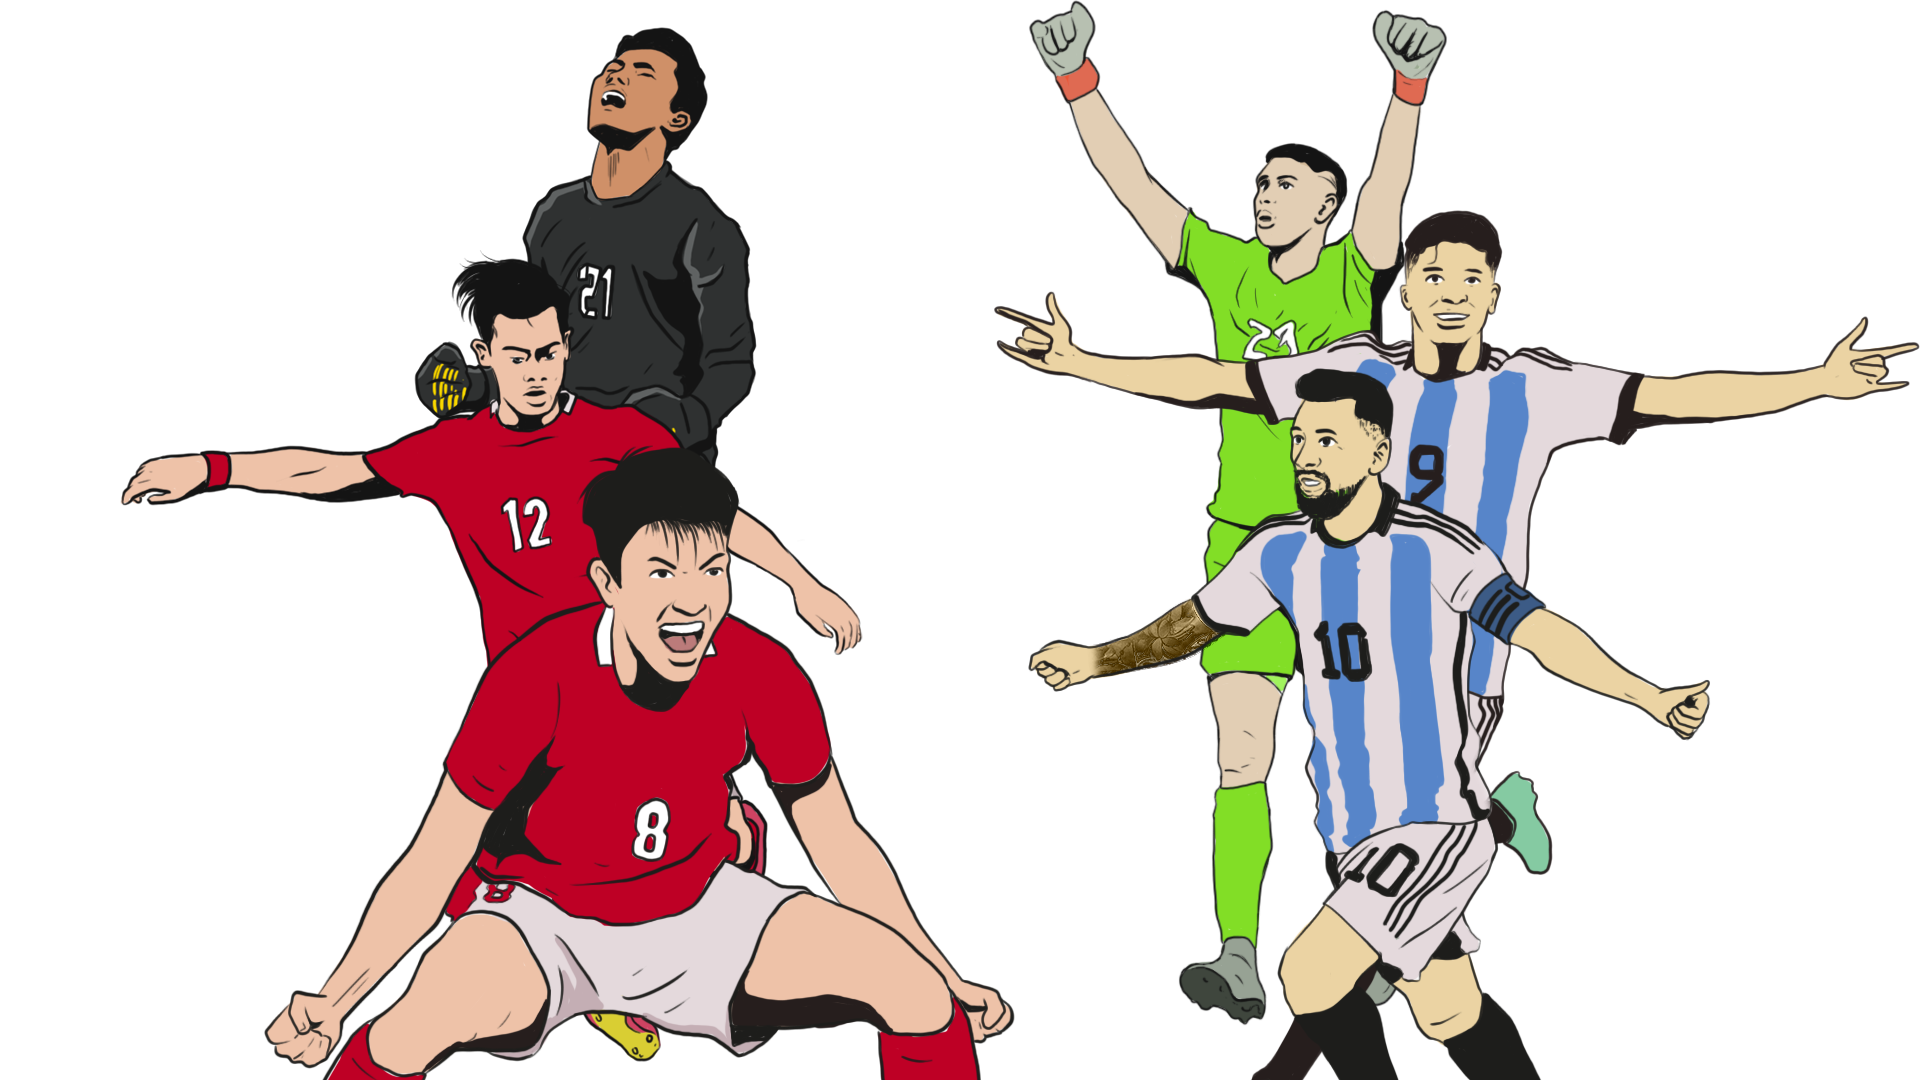
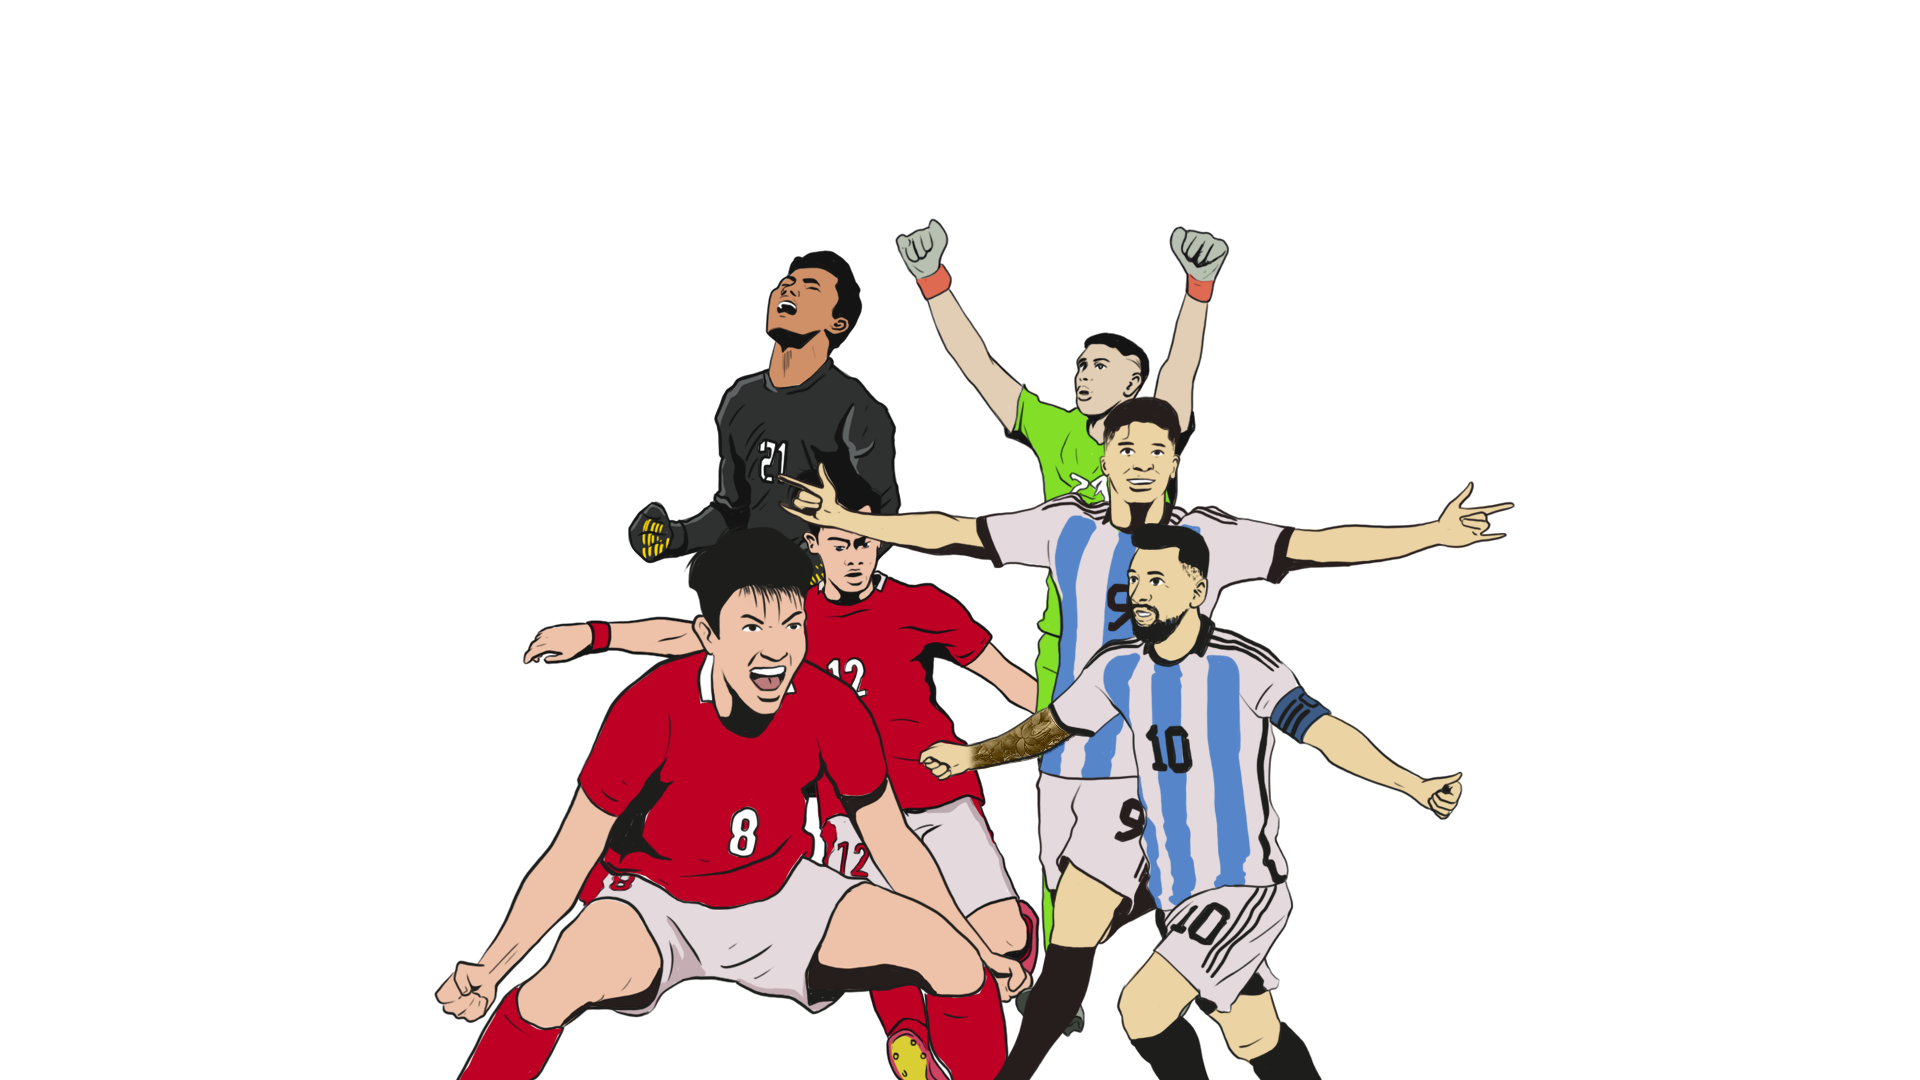
sws

diff --git a/sass/style.css b/sass/style.css
@@ -1,4 +1,4 @@
-@import url("https://fonts.googleapis.com/css2?family=Bree+Serif&family=DM+Serif+Display&family=Libre+Baskerville&family=Montserrat:wght@400;500;700&family=Oxanium&family=Kanit:wght@300;400;600;700&display=swap");@font-face{font-family:"Aeonik Medium";src:url("../fonts/Aeonik-Medium.woff2");src:url("../fonts/Aeonik-Medium.woff2") format("woff2")}@font-face{font-family:"Aeonik Regular";src:url("../fonts/Aeonik-Regular.woff2");src:url("../fonts/Aeonik-Regular.woff2") format("woff2")}body{overflow-x:hidden}.o-hidden{overflow-x:clip}body,main{font-family:'Kanit', sans-serif}.firstletter::first-letter{float:left;font-weight:bold;margin-right:8px;font-size:60px;font-size:6rem;line-height:40px;line-height:4rem;height:4rem;text-transform:uppercase}.slick-slide{margin:0 16px}.slick-list{margin:0 -16px}.slick-next,.slick-prev{border:2px solid rgba(255,255,255,0.5);width:42px;background:rgba(135,195,211,0.6);height:42px;border-radius:50%}.slick-next:hover,.slick-next:focus,.slick-next:active,.slick-prev:hover,.slick-prev:focus,.slick-prev:active{background:rgba(135,195,211,0.8)}.slick-next::before,.slick-prev::before{font-family:"FontAwesome";z-index:99;color:white}.slick-next{right:-16px;z-index:9}.slick-next::before{content:"\f054"}.slick-prev{left:-16px;z-index:9}.slick-prev::before{content:"\f053"}.slick-dots li button::before{font-size:39px;content:"";width:20px;height:3px}.isdesktop{display:block}@media screen and (max-width: 766px){.isdesktop{display:none}}.ismobile{display:none}@media screen and (max-width: 766px){.ismobile{display:block}}#nav{background:rgba(0,120,130,0.5) !important;z-index:99 !important;backdrop-filter:blur(11px)}@media screen and (max-width: 766px){#nav{backdrop-filter:initial}}.share_icon>a{padding:0}#share{z-index:108}.share_icon>a i{font-size:25px;line-height:initial}@media screen and (max-width: 766px){.share_icon>a i{font-size:16px !important;line-height:initial}}h2,h3{font-weight:700}section{padding:32px 0;min-height:100vh;position:relative;background:#87232b;color:white;z-index:8}section p,section div{font-size:1.2rem;font-weight:300}@media screen and (max-width: 766px){section p,section div{font-size:1rem}}.totop{position:relative;z-index:88}::-webkit-scrollbar{width:5px;height:5px}::-webkit-scrollbar-track{background:#f1f1f1}::-webkit-scrollbar-thumb{background:#888}::-webkit-scrollbar-thumb:hover{background:#555}.bg-trsp-white{background:rgba(255,255,255,0.07);padding:8px 16px;border-radius:8px}.bg-trsp-white p,.bg-trsp-white blockquote{margin-bottom:0;color:white}.titlex{font-family:'Aeonik Medium', sans-serif;font-weight:700;color:white;font-size:3.5rem;line-height:4rem}@media screen and (max-width: 766px){.titlex{font-size:2.2rem;line-height:2.4rem}}.highlights{color:#f7bb2e;font-weight:700}.headerpp{position:fixed;top:0;right:0;z-index:102;left:0;height:56px;display:none;width:100%;background:black}@media screen and (max-width: 766px){.footerm{position:fixed;height:46px;width:100%;background:#bbb;z-index:999;display:none;left:0;right:0;bottom:0}}.test-sticky{position:sticky;top:56px}@media screen and (max-width: 766px){.test-sticky{margin-bottom:24px;top:0;text-align:center}}@media screen and (max-width: 766px){.font-in{font-size:1.9rem}}.title__cek{width:fit-content;color:#f8f8f8;padding:8px 8px;margin:0 auto;text-align:center;position:relative}.title__cek h3{font-size:3.2rem}@media screen and (max-width: 766px){.title__cek h3{font-size:2.2rem}}.banner{padding:0}.banner .img{width:100%;height:100vh}.banner .img img{width:100%;height:100%;object-fit:contain}@media screen and (max-width: 766px){.banner .img img{object-fit:cover}}.banner .img-wash{position:absolute;inset:0;width:100%;height:100%}.banner .img-wash img{width:100%;height:100%;object-fit:cover}.banner .img-wash::before{content:"";position:absolute;inset:0;background:linear-gradient(to top, #87232b, rgba(135,35,43,0.8), #87232b)}.pembukaan{padding:52px 0}.pembukaan .imgg{position:absolute;left:0;right:0;width:100%;height:auto;z-index:4;bottom:0px;display:none}@media screen and (max-width: 766px){.pembukaan .imgg{display:block}}@media screen and (max-width: 375px){.pembukaan .imgg{display:block}}.pembukaan .imgg img{width:100%;height:100%;object-fit:cover}.pembukaan .bgs{position:absolute;inset:0;width:100%;opacity:1;height:100%;z-index:2}@media screen and (max-width: 766px){.pembukaan .bgs{height:99%}}.pembukaan .bgs::before{content:'';position:absolute;height:10vh;left:0;right:0;bottom:0;background:linear-gradient(to top, #87232b 20%, transparent)}@media screen and (max-width: 766px){.pembukaan .bgs::before{content:'';display:none}}.pembukaan .bgs img{width:100%;height:100%;object-fit:cover}.pembukaan .bg{position:absolute;inset:0;width:100%;opacity:.3;height:100%}.pembukaan .bg::before{content:'';position:absolute;inset:0;background:linear-gradient(to top, #87232b, rgba(135,35,43,0.7), #87232b)}.pembukaan .bg img{width:100%;height:100%;object-fit:cover}@keyframes MoveUpDown{0%,
+@import url("https://fonts.googleapis.com/css2?family=Bree+Serif&family=DM+Serif+Display&family=Libre+Baskerville&family=Montserrat:wght@400;500;700&family=Oxanium&family=Kanit:wght@300;400;600;700&display=swap");@font-face{font-family:"Aeonik Medium";src:url("../fonts/Aeonik-Medium.woff2");src:url("../fonts/Aeonik-Medium.woff2") format("woff2")}@font-face{font-family:"Aeonik Regular";src:url("../fonts/Aeonik-Regular.woff2");src:url("../fonts/Aeonik-Regular.woff2") format("woff2")}body{overflow-x:hidden}.o-hidden{overflow-x:clip}body,main{font-family:'Kanit', sans-serif}.firstletter::first-letter{float:left;font-weight:bold;margin-right:8px;font-size:60px;font-size:6rem;line-height:40px;line-height:4rem;height:4rem;text-transform:uppercase}.slick-slide{margin:0 16px}.slick-list{margin:0 -16px}.slick-next,.slick-prev{border:2px solid rgba(255,255,255,0.5);width:42px;background:rgba(135,195,211,0.6);height:42px;border-radius:50%}.slick-next:hover,.slick-next:focus,.slick-next:active,.slick-prev:hover,.slick-prev:focus,.slick-prev:active{background:rgba(135,195,211,0.8)}.slick-next::before,.slick-prev::before{font-family:"FontAwesome";z-index:99;color:white}.slick-next{right:-16px;z-index:9}.slick-next::before{content:"\f054"}.slick-prev{left:-16px;z-index:9}.slick-prev::before{content:"\f053"}.slick-dots li button::before{font-size:39px;content:"";width:20px;height:3px}.isdesktop{display:block}@media screen and (max-width: 766px){.isdesktop{display:none}}.ismobile{display:none}@media screen and (max-width: 766px){.ismobile{display:block}}#nav{background:rgba(0,120,130,0.5) !important;z-index:99 !important;backdrop-filter:blur(11px)}@media screen and (max-width: 766px){#nav{backdrop-filter:initial}}.share_icon>a{padding:0}#share{z-index:108}.share_icon>a i{font-size:25px;line-height:initial}@media screen and (max-width: 766px){.share_icon>a i{font-size:16px !important;line-height:initial}}h2,h3{font-weight:700}section{padding:32px 0;min-height:100vh;position:relative;background:#87232b;color:white;z-index:8}section p,section div{font-size:1.2rem;font-weight:300}@media screen and (max-width: 766px){section p,section div{font-size:1rem}}.totop{position:relative;z-index:88}::-webkit-scrollbar{width:5px;height:5px}::-webkit-scrollbar-track{background:#f1f1f1}::-webkit-scrollbar-thumb{background:#888}::-webkit-scrollbar-thumb:hover{background:#555}.bg-trsp-white{background:rgba(255,255,255,0.07);padding:8px 16px;border-radius:8px}.bg-trsp-white p,.bg-trsp-white blockquote{margin-bottom:0;color:white}.titlex{font-family:'Aeonik Medium', sans-serif;font-weight:700;color:white;font-size:3.5rem;line-height:4rem}@media screen and (max-width: 766px){.titlex{font-size:2.2rem;line-height:2.4rem}}.highlights{color:#f7bb2e;font-weight:700}.headerpp{position:fixed;top:0;right:0;z-index:102;left:0;height:56px;display:none;width:100%;background:black}@media screen and (max-width: 766px){.footerm{position:fixed;height:46px;width:100%;background:#bbb;z-index:999;display:none;left:0;right:0;bottom:0}}.test-sticky{position:sticky;top:56px}@media screen and (max-width: 766px){.test-sticky{margin-bottom:24px;top:0;text-align:center}}@media screen and (max-width: 766px){.font-in{font-size:1.9rem}}.title__cek{width:fit-content;color:#f8f8f8;padding:8px 8px;margin:0 auto;text-align:center;position:relative}.title__cek h3{font-size:3.2rem}@media screen and (max-width: 766px){.title__cek h3{font-size:2.2rem}}.banner{padding:0;position:relative}.banner .judul{position:absolute;left:50%;width:80%;text-align:center;z-index:9;top:80px;transform:translate(-50%, 0)}@media screen and (max-width: 766px){.banner .judul{top:70px}}.banner .judul h2{font-size:3.5rem;text-shadow:8px 4px black;margin-bottom:0;line-height:3.2rem}@media screen and (max-width: 766px){.banner .judul h2{font-size:2.4rem;line-height:2.2rem}}.banner .test{position:absolute;left:0;right:0;bottom:0;z-index:5;width:100%;height:100px}.banner .img{width:100%;height:100vh;z-index:2;position:relative}.banner .img img{width:100%;height:100%;object-fit:contain}@media screen and (max-width: 766px){.banner .img img{object-fit:cover}}.banner .img-wash{position:absolute;inset:0;width:100%;height:100%}.banner .img-wash img{width:100%;height:100%;object-fit:cover}.banner .img-wash::before{content:"";position:absolute;inset:0;background:linear-gradient(to top, #87232b, rgba(135,35,43,0.8), #87232b)}.pembukaan{padding:52px 0}.pembukaan .imgg{position:absolute;left:0;right:0;width:100%;height:auto;z-index:4;bottom:0px;display:none}@media screen and (max-width: 766px){.pembukaan .imgg{display:block}}@media screen and (max-width: 375px){.pembukaan .imgg{display:block}}.pembukaan .imgg img{width:100%;height:100%;object-fit:cover}.pembukaan .bgs{position:absolute;inset:0;width:100%;opacity:1;height:100%;z-index:2}@media screen and (max-width: 766px){.pembukaan .bgs{height:99%}}.pembukaan .bgs::before{content:'';position:absolute;height:10vh;left:0;right:0;bottom:0;background:linear-gradient(to top, #87232b 20%, transparent)}@media screen and (max-width: 766px){.pembukaan .bgs::before{content:'';display:none}}.pembukaan .bgs img{width:100%;height:100%;object-fit:cover}.pembukaan .bg{position:absolute;inset:0;width:100%;opacity:.3;height:100%}.pembukaan .bg::before{content:'';position:absolute;inset:0;background:linear-gradient(to top, #87232b, rgba(135,35,43,0.7), #87232b)}.pembukaan .bg img{width:100%;height:100%;object-fit:cover}@keyframes MoveUpDown{0%,
     100%{left:0}50%{left:25px}}.gambar_bottom{animation:MoveUpDown 3s linear infinite;position:absolute;bottom:0;left:0;width:auto;height:35vh}.gambar_bottom img{width:100%;height:100%;object-fit:contain}.data{overflow-x:clip}.data.no-padd{padding:32px 0 0}.data .imggs{position:absolute;left:0;right:0;width:100%;height:auto;z-index:4;top:0px}.data .imggs img{width:100%;height:100%;object-fit:cover}.data .kaka{margin:initial !important}.data .imgs{position:absolute;top:-51px;width:100%}@media screen and (max-width: 766px){.data .imgs{height:433px}}.data .imgs::before{content:"";position:absolute;inset:0}.data .imgs img{width:100%;height:100%;object-fit:cover}.data .prediksi{position:relative;height:100vh;width:100%;z-index:7}.data .prediksi .vs{position:relative;top:50px;font-weight:200}.data .prediksi .skor{position:absolute;top:40%;width:100vw;height:60%;text-align:center;margin:0 auto;padding:100px 0 0}@media screen and (max-width: 766px){.data .prediksi .skor{padding:32px 0}}.data .prediksi .skor .imgg{position:absolute;inset:0;width:100%;height:100%}.data .prediksi .skor .imgg::before{content:"";position:absolute;inset:0;background:linear-gradient(to top, #000, rgba(0,0,0,0.5), #000)}.data .prediksi .skor .imgg img{width:100%;height:100%;object-fit:cover}.data .prediksi .skor .lines{position:absolute;left:0;right:0;width:100%;height:auto;top:initial;bottom:90%}@media screen and (max-width: 766px){.data .prediksi .skor .lines{top:-155px;bottom:initial}}@media screen and (max-width: 375px){.data .prediksi .skor .lines{top:-150px;bottom:initial}}.data .prediksi .skor .lines img{width:100%;height:100%;object-fit:cover}.data .prediksi .skor .boxs{width:240px;height:240px;background:rgba(255,255,255,0.7);margin:16px auto;font-size:10rem}@media screen and (max-width: 766px){.data .prediksi .skor .boxs{width:80px;font-size:3rem;height:80px}}.data-garis{border:1px solid;width:fit-content;padding:8px;margin:8px}.data-garis h4{color:white !important;font-size:1.3rem !important}.data-garis ul{padding:0 24px}.data .fit{width:fit-content}.data .imgd{position:absolute;width:120px;height:120px;background:linear-gradient(to top, #ccc, #fff);border-radius:50%;padding:16px;top:-25px;left:-25px}@media screen and (max-width: 766px){.data .imgd{width:120px;height:120px}}.data .imgd img{width:100%;height:100%;object-fit:contain}.data-merah{background:#fff;width:fit-content;padding:8px;color:#87232b;position:relative;border-radius:16px;margin:24px 8px}.data-merah .hm{margin-left:100px}.data-merah p{margin-bottom:0}.data-merah .boldx{font-size:2rem;font-weight:bold}.data-merah h4{font-size:1.3rem !important;color:#87232b !important;margin-bottom:0 !important}@media screen and (max-width: 766px){.data-merah h4{font-size:1.2rem !important}}.data .pelatih{border:5px solid black;border-radius:16px;box-shadow:10px 10px #b9b1b2;height:240px !important;position:sticky;top:60px}.data .pelatih h4{font-size:.8rem;text-align:center;color:white;font-weight:300;position:relative}@media screen and (max-width: 766px){.data .pelatih{box-shadow:5px 5px #b9b1b2}}.data .pelatih img{border-radius:12px}.data .no-rotate{transform:initial !important}.data .titlesa{position:relative;width:fit-content;margin:0 auto;z-index:4}.data .titlesa h3{margin-bottom:0;color:#fbfb3b}.data .titlesa::before{content:"";position:absolute;top:16px;bottom:0;z-index:-1;right:-8px;width:100%;height:80%;background:#111}.data .img-sup{width:100%;height:320px;border:8px solid #ccc;border-radius:16px;transform:rotate(-2deg)}.data .img-sup img{width:100%;border-radius:16px;height:100%;object-fit:cover}.data .img-col{width:100%;height:100%}.data .img-col img{width:100%;height:100%;object-fit:cover}.data h4{font-size:2rem;font-weight:600;color:#cecece}@media screen and (max-width: 766px){.data h4{font-size:1.6rem}}.data .konten-img{width:100%;height:fit-content}.data .konten-img img{width:100%;height:100%;object-fit:contain}.data .img{width:50%;height:320px;position:absolute;left:0;z-index:3;bottom:0}@media screen and (max-width: 766px){.data .img{overflow-x:hidden;height:270px}}.data .img img{width:100%;height:100%;object-fit:contain}@media screen and (max-width: 766px){.data .img img{object-fit:cover}}.data .img-wash{position:absolute;inset:0;width:100%;height:100%}.data .img-wash img{width:100%;height:100%;object-fit:cover}.data .img-wash.haha::before{content:"";position:absolute;inset:0;background:linear-gradient(to top, #87232b, rgba(135,35,43,0.9), #87232b)}@media screen and (max-width: 766px){.data .img-wash.haha::before{background:linear-gradient(to top, #87232b, rgba(135,35,43,0.8), #87232b)}}.data .img-wash::before{content:"";position:absolute;inset:0;background:linear-gradient(to top, #87232b, rgba(135,35,43,0.8), #87232b)}.data .helping{position:absolute;inset:0;width:100%;height:100%;background:rgba(220,24,25,0.8)}.data .kiper{width:100%;height:100vh}.data .kiper img{width:100%;height:100%;object-fit:cover}.data .all{display:block;width:680px;margin:64px auto 0}@media screen and (max-width: 766px){.data .all{width:auto}}.data .all .side-play{display:inline-block;width:43%;background-position:bottom;height:200px;background-size:contain;background-image:url(../img/bg.png);vertical-align:middle;border-radius:16px;border:2px solid #fff;position:relative}.data .all .side-play .position{position:absolute;left:0;top:0;font-weight:600;display:none;background:white;color:#dc1819;padding:0 8px}.data .all .side-play .name{position:absolute;bottom:0;font-weight:600;left:0;border-radius:0 0 16px 16px;right:0;height:24px;font-size:1rem;z-index:8;background:rgba(255,255,255,0.7);color:#dc1819;text-align:center}@media screen and (max-width: 766px){.data .all .side-play .name{font-size:.85rem}}.data .all .side-play .img{position:absolute;left:0;right:0;bottom:0;width:100%;height:115%}.data .all .side-play .img img{width:100%;border-radius:16px;height:100%;object-fit:cover}.data .all .centerx{display:inline-block;margin:0 8px;vertical-align:middle}.data .min100{height:100vh}.data .bg{position:absolute;inset:0;width:100%;opacity:.3;height:100%}.data .bg.o6{opacity:.6 !important}.data .bg::before{content:'';position:absolute;inset:0;background:linear-gradient(to top, #87232b, rgba(135,35,43,0.7), #87232b)}.data .bg img{width:100%;height:100%;object-fit:cover}@keyframes MoveUpDown1{0%,
     100%{top:10px}50%{top:25px}}.sticky-img{position:sticky;top:24px;left:0;right:0;bottom:0;width:60%;height:100%}@media screen and (max-width: 766px){.sticky-img{width:100%}}.sticky-img img{width:100%;height:100%;object-fit:contain}.bg-help-teks{background:rgba(135,35,43,0.8)}.bg-help-teks h4{color:white}.table-messi td:first-child{font-size:.8rem}.table-messi td:last-child{font-size:1.2rem;padding:0 8px}.fasiliti .imgk{width:100%;height:320px;border-radius:16px;border:6px solid white;position:relative;z-index:8}.fasiliti .imgk img,.fasiliti .imgk iframe{border-radius:16px;width:100%;height:100%;object-fit:cover}.fasiliti .imgk .detaild{position:absolute;bottom:0px;left:0px;font-weight:700;color:white;padding:8px}.fasiliti .imgk .detaild .totop{font-size:1.2rem}.fasiliti .imgk .detaild::before{content:"";position:absolute;bottom:0px;left:0px;top:0;right:0;width:89vw;background:linear-gradient(to top, #000, transparent);z-index:1;border-radius:0 0 16px 16px}.allm .bold{font-weight:600}.allm ul{padding:4px 20px}.table-pelatih{color:white !important}.table-pelatih td{font-size:.9rem}
 /*# sourceMappingURL=style.css.map */

diff --git a/sass/banner.scss b/sass/banner.scss
@@ -1,8 +1,54 @@
 .banner {
     padding: 0;
+    position: relative;
+    .judul {
+        position: absolute;
+        left: 50%;
+        width: 80%;
+        text-align: center;
+        // border: 1px solid;
+        z-index: 9;
+        top: 80px;
+        transform: translate(-50%, 0);
+        @media screen and (max-width: 766px) {
+            top: 70px;
+        }
+        h2 {
+            font-size: 3.5rem;
+            text-shadow: 8px 4px black;
+            margin-bottom: 0;
+            line-height: 3.2rem;
+            @media screen and (max-width: 766px) {
+                font-size: 2.4rem;
+                line-height: 2.2rem;
+            }
+        }
+    }
+    .test {
+        position: absolute;
+        left: 0;
+        right: 0;
+        bottom: 0;
+        z-index: 5;
+        width: 100%;
+        height: 100px;
+        // background: yellow;
+        // background: linear-gradient(to top, $red, transparent);
+    }
     .img {
         width: 100%;
         height: 100vh;
+        z-index: 2;
+        position: relative;
+        // &::before {
+        //     content: "";
+        //     position: absolute;
+        //     left: 0;
+        //     right: 0;
+        //     bottom: 0;
+        //     height: 10vh;
+        //     background: linear-gradient(to top, $red, transparent);
+        // }
         img {
             width: 100%;
             height: 100%;

diff --git a/index.html b/index.html
@@ -19,10 +19,14 @@
 <body>
     <main>
         <section class="banner">
+            <div class="judul">
+                <h2>Fifa Matchday</h2>
+                <h2>Indonesia vs Argentina</h2>
+            </div>
+            <div class="test"></div>
             <div class="img-wash">
-                <!-- <img src="https://akcdn.detik.net.id/community/media/visual/2023/03/30/piala-dunia-u-20-batal-di-ri-6-stadion-ini-gagal-jadi-venue.jpeg?w=1080" alt> -->
-                <!-- <img src="https://akcdn.detik.net.id/community/media/visual/2014/11/20/37bd3ea1-d3f9-4c2d-bf6c-02d146e5656d.jpg?w=1080" alt=""> -->
-                <img src="img/lap2.jpg" alt="">
+
+                <img src="img/lap.jpg" alt="">
             </div>
             <div class="img totop">
                 <picture>
